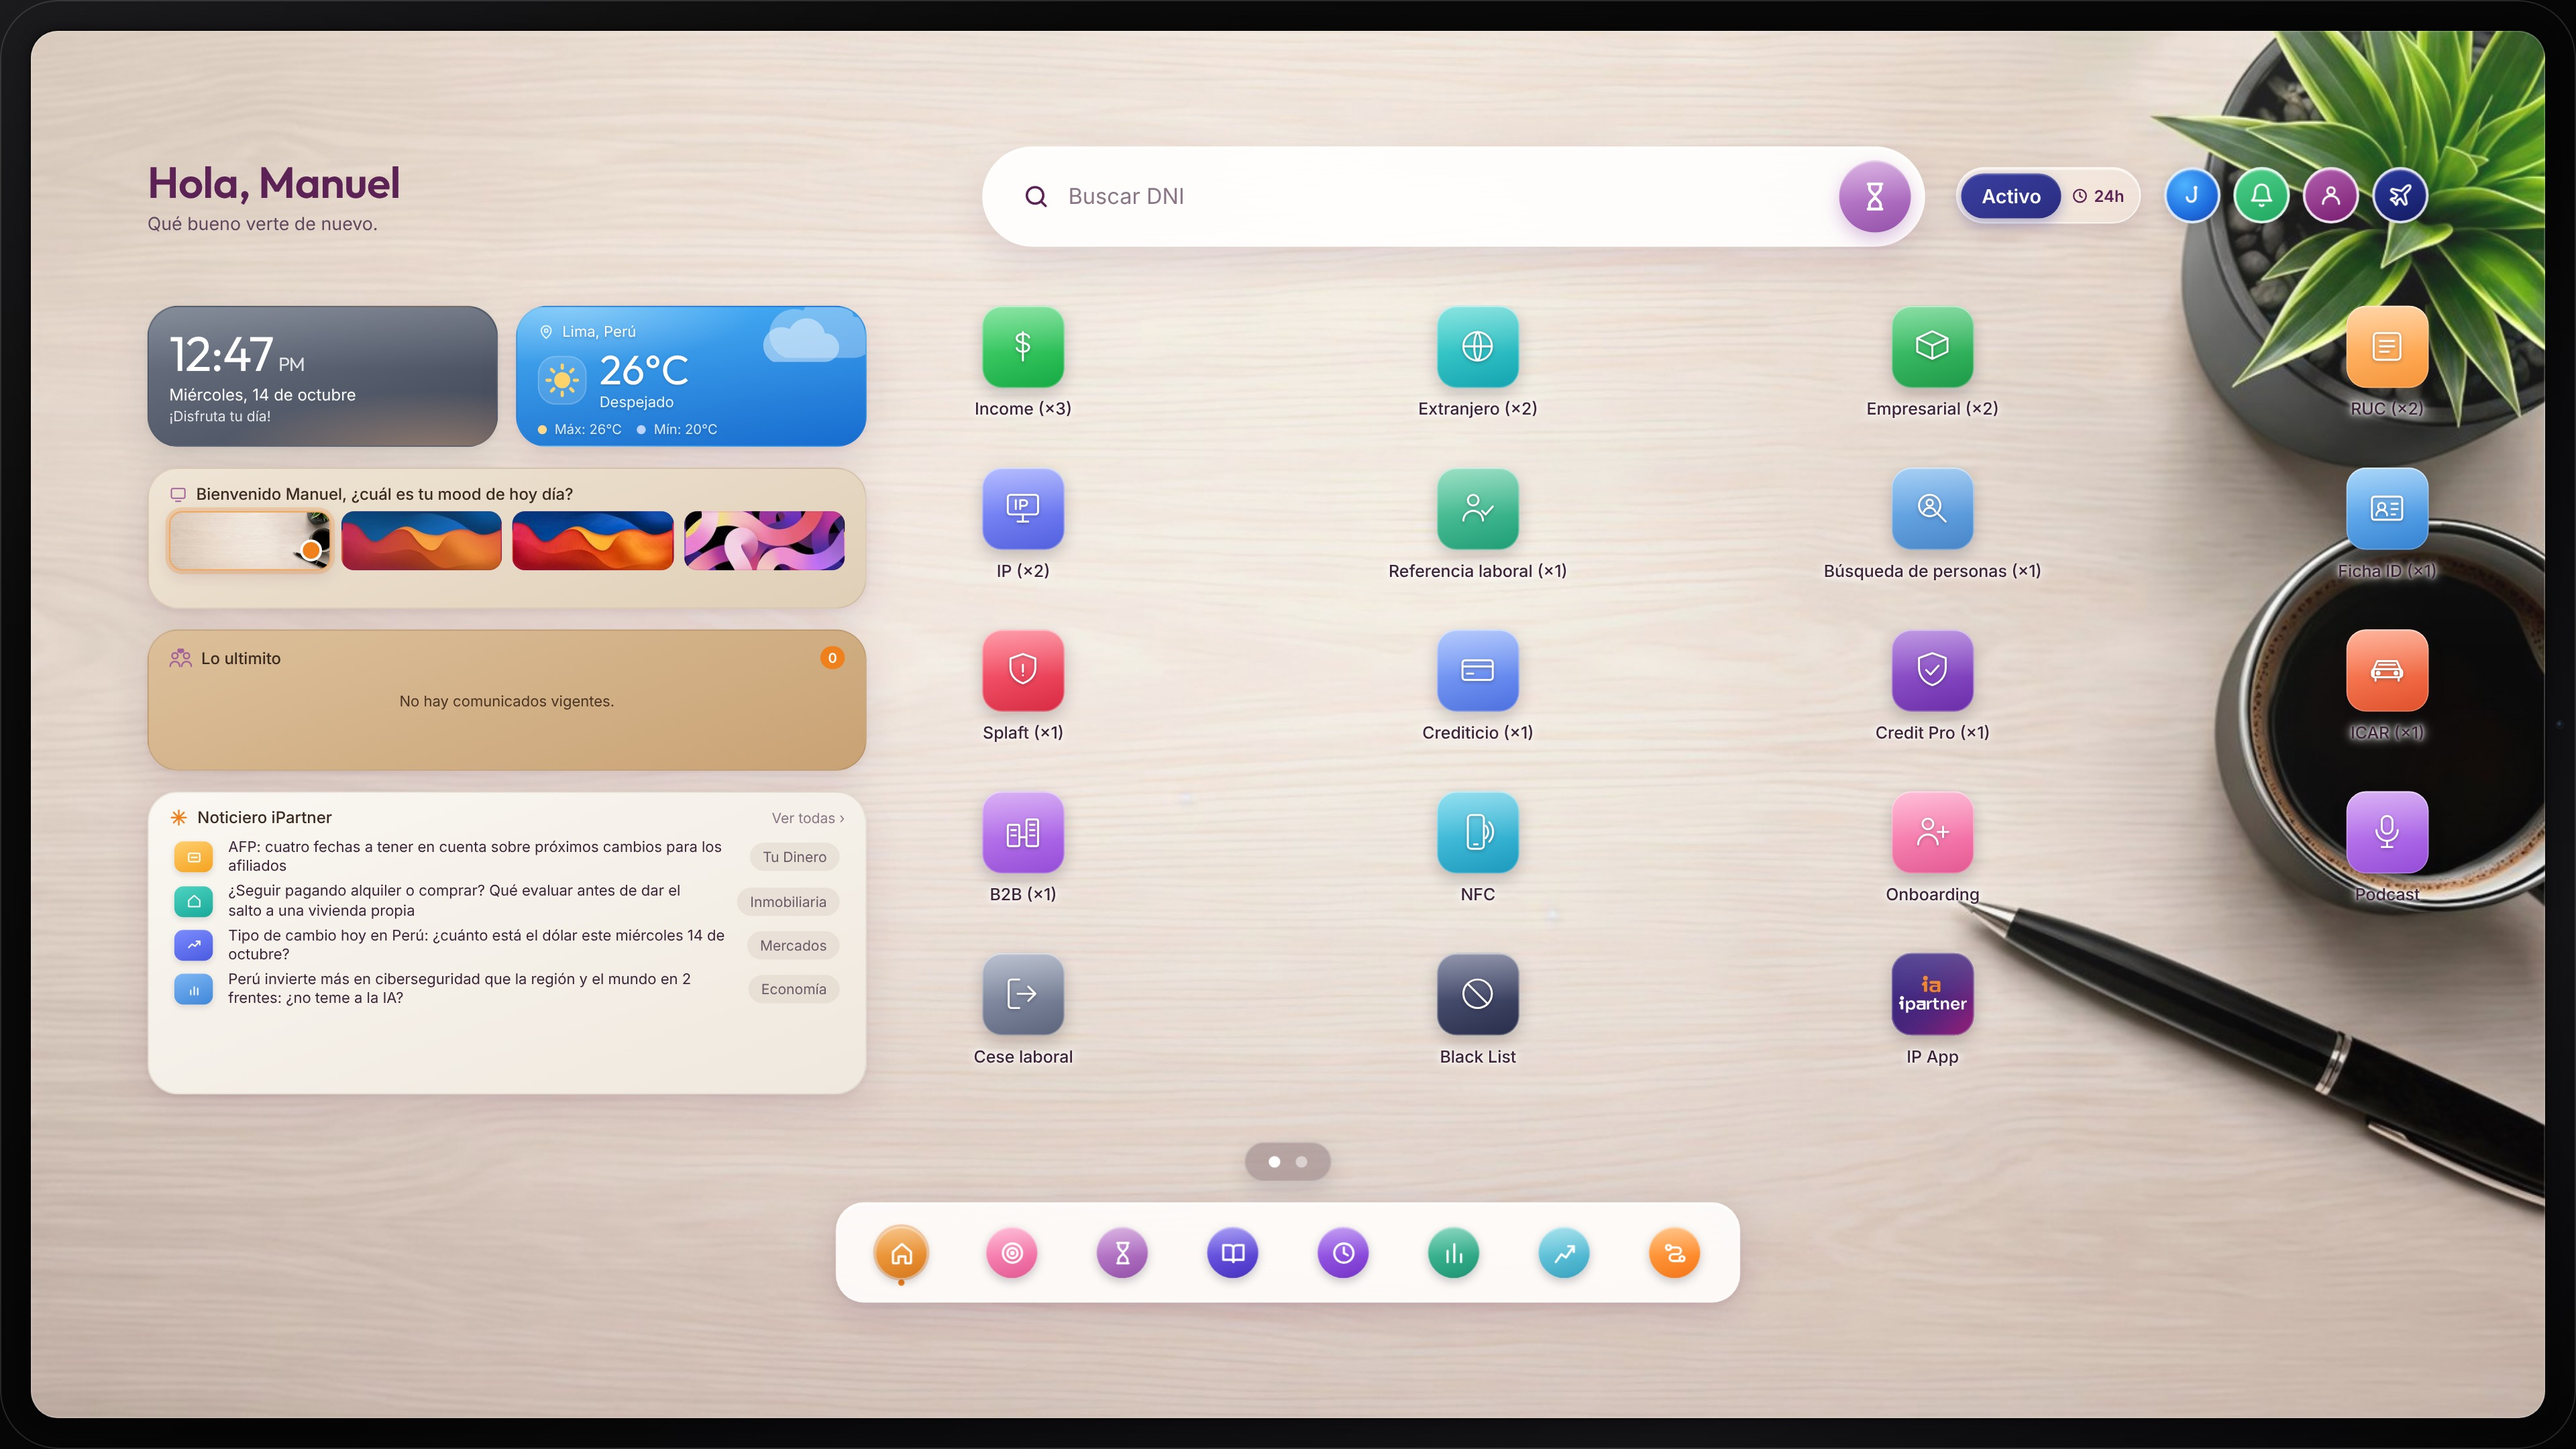
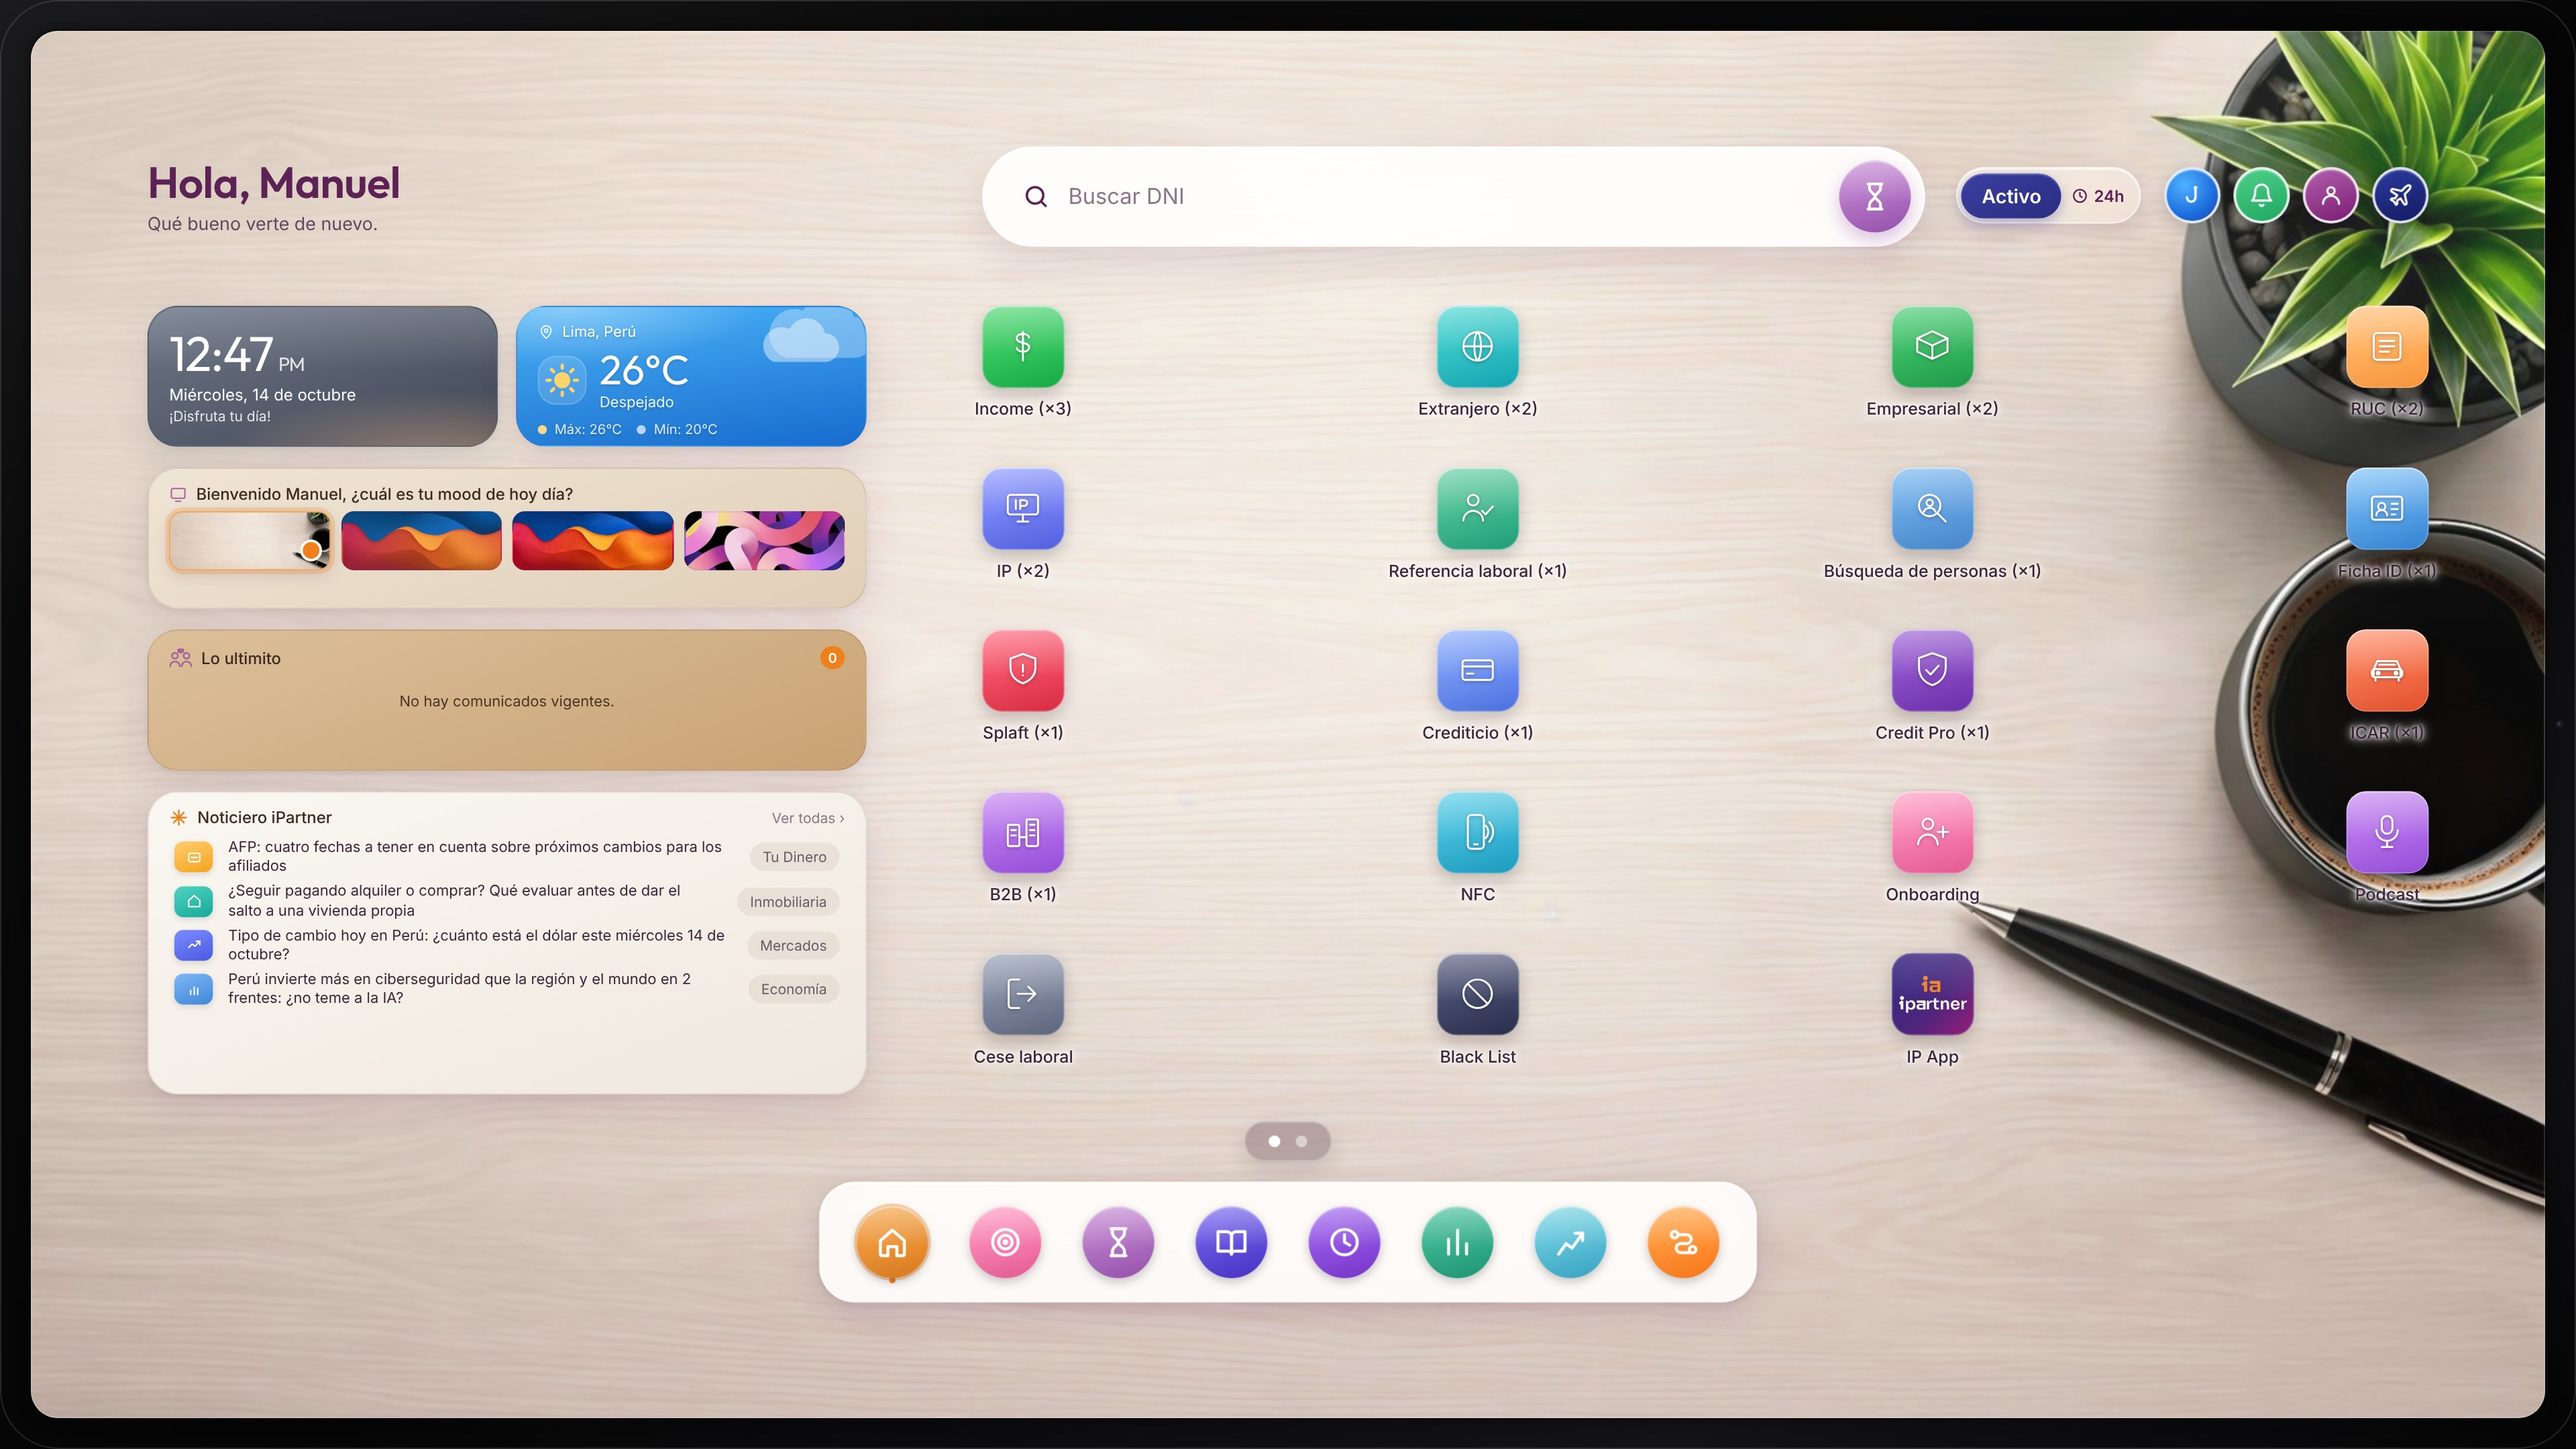
Home: Dock más grande en la propuesta iPad
Íconos del Dock de 56px (antes 40) y barra más alta, sin alargarla de
más; los puntos quedan a 16px del Dock y los márgenes siguen en 90px.

Claude-Session: https://claude.ai/code/session_01KT8NTYu2Ge9wagQ7cc8Njn

Changed region(s): [[0.3125, 0.7755, 0.6875, 0.8995]]

diff --git a/home/propuestas/ipartner-home-ipad.html b/home/propuestas/ipartner-home-ipad.html
@@ -1238,6 +1238,12 @@ header{margin-bottom:44px}
 /* Barra alineada a la grilla de íconos (no al centro de la pantalla) */
 header .buscador{left:650px!important;transform:none!important;width:auto!important;right:var(--bar-r,600px)!important}
 :root{--bar-r:392px}
+/* Dock más grande, estilo iPad */
+.nav-chip{width:56px!important;height:56px!important;flex:0 0 56px!important}
+.nav-chip svg{width:28px!important;height:28px!important}
+.nav-item{padding:6px!important}
+nav{padding:12px 22px!important;gap:20px!important;border-radius:28px!important}
+.puntos-pag{bottom:176px!important}
 
 </style>
 </head>
